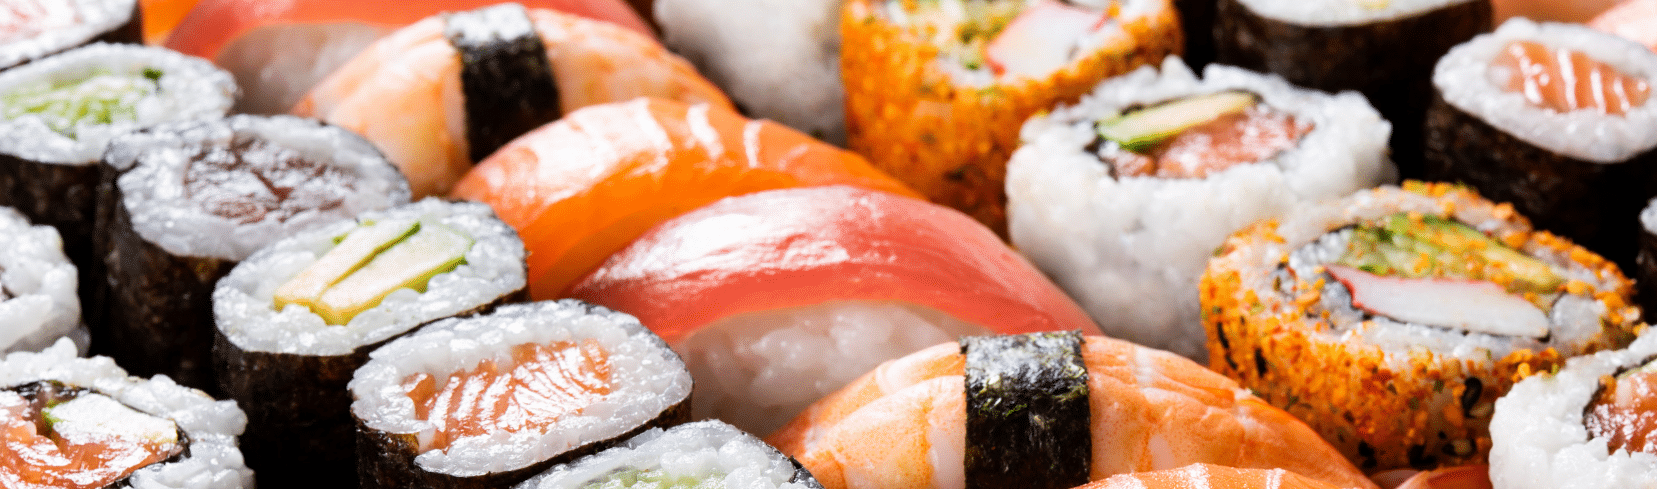
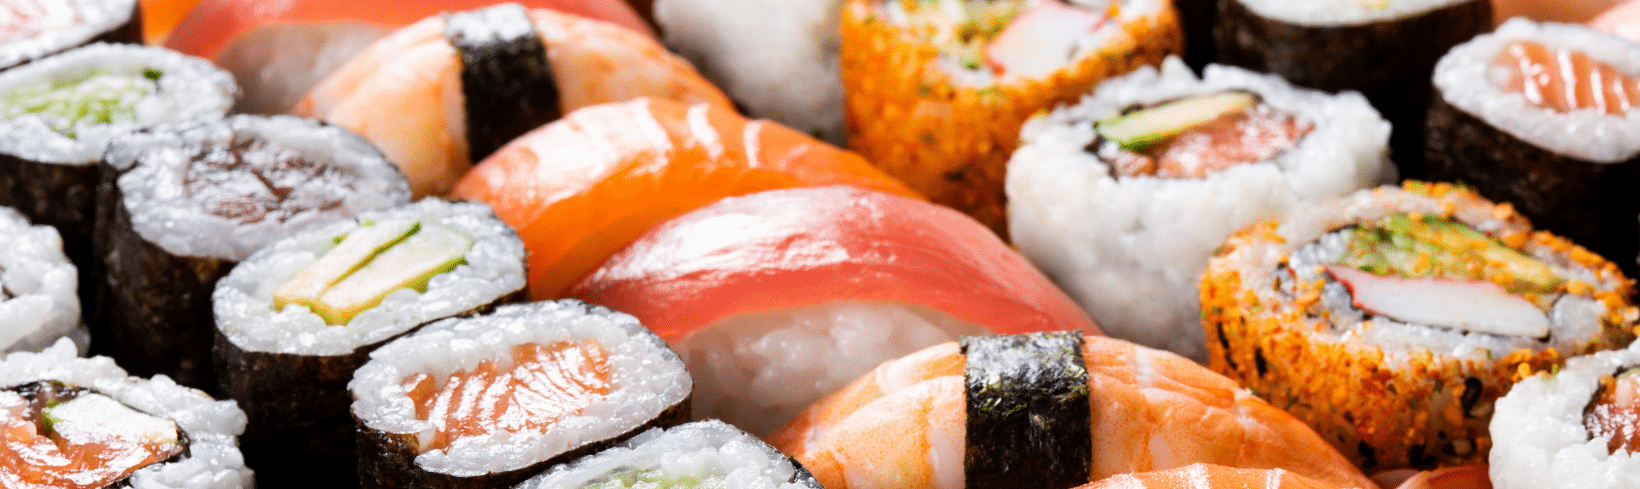
Remplacement de l'ancien projet par front_sae

diff --git a/front_sae/html/boxes.html b/front_sae/html/boxes.html
@@ -4,7 +4,7 @@
     <meta charset="UTF-8">
     <meta http-equiv="X-UA-Compatible" content="IE=edge">
     <meta name="viewport" content="width=device-width, initial-scale=1.0">
-    <link rel="stylesheet" href="../css/style_menu.css">
+    <link rel="stylesheet" href="../css/style_boxes.css">
     <title>OISHI</title>
 </head>
 <body>
@@ -14,21 +14,26 @@
       <div class="logo"><img src="../image/logo/logo_contour.png" alt="Logo"></div>
 
       <div class="nav-links" id="nav-links">
-        <a class="accueil" href="./index.html">Accueil</a>
-        <a href="./Menu.html">Menu</a>
+        <a class="accueil" href="../html/index.html">Accueil</a>
+        <a href="../html/menu.html">Menu</a>
         <a href="./offre.html">Offre</a>
-        <a href="./box.html">Boxes</a>   
+        <a href="../html/boxes.html">Boxes</a>   
         <a class="profil" href="./profil.html"><img src="../image/profil.png" alt="profil"></a>
       <a class="panier" href="../html/panier.html"><img src="../image/panier.png" alt="panier"></a>
 </div>
     </div>
   </nav>
 <img class="img_menu" src="../image/fond_sushi_menu.png" alt="image_menu">
-<p class="menu_text">Menu</p>
-<p class="boxes_text">Boxes</p>
+<a  class="menu_text"href="../html/menu.html">Menu</a>
+<a  class="boxes_text" href="../html/boxes.html">Boxes</a>
 <p class="offres_text">Offres</p>
 
-
+<img class="boxx1" src="../image/boxx1.png" alt="menu">
+<img class="boxx2" src="../image/boxx2.png" alt="menu">
+<img class="boxx3" src="../image/boxxx3.png" alt="menu">
+<img class="button" src="../image/bouton_ajout.png" alt="bouton">
+<img class="button2" src="../image/bouton_ajout.png" alt="bouton">
+<img class="button3" src="../image/bouton_ajout.png" alt="bouton">
 
 
 

diff --git a/front_sae/html/menu.html b/front_sae/html/menu.html
@@ -14,21 +14,26 @@
       <div class="logo"><img src="../image/logo/logo_contour.png" alt="Logo"></div>
 
       <div class="nav-links" id="nav-links">
-        <a class="accueil" href="./index.html">Accueil</a>
-        <a href="./Menu.html">Menu</a>
+        <a class="accueil" href="../html/index.html">Accueil</a>
+        <a href="../html/menu.html">Menu</a>
         <a href="./offre.html">Offre</a>
-        <a href="./box.html">Boxes</a>   
+        <a href="../html/boxes.html">Boxes</a>   
         <a class="profil" href="./profil.html"><img src="../image/profil.png" alt="profil"></a>
       <a class="panier" href="../html/panier.html"><img src="../image/panier.png" alt="panier"></a>
 </div>
     </div>
   </nav>
 <img class="img_menu" src="../image/fond_sushi_menu.png" alt="image_menu">
-<p class="menu_text">Menu</p>
-<p class="boxes_text">Boxes</p>
+<a  class="menu_text"href="../html/menu.html">Menu</a>
+<a  class="boxes_text" href="../html/boxes.html">Boxes</a>
 <p class="offres_text">Offres</p>
 
-
+<img class="sushi1" src="../image/SUSHI1_menu.png" alt="menu">
+<img class="sushi2" src="../image/sushi2_menu.png" alt="menu">
+<img class="sushi3" src="../image/sushi3_menu.png" alt="menu">
+<img class="button" src="../image/bouton_ajout.png" alt="bouton">
+<img class="button2" src="../image/bouton_ajout.png" alt="bouton">
+<img class="button3" src="../image/bouton_ajout.png" alt="bouton">
 
 
 

diff --git a/front_sae/css/style_menu.css b/front_sae/css/style_menu.css
@@ -41,6 +41,7 @@ nav {
 .profil{
     margin-left:380px;
 }
+
 .menu_text{
     font-family: "Inter", sans-serif;
     font-weight: bold;
@@ -48,7 +49,8 @@ nav {
     text-align: left;
     margin-top: 5px;
     margin-left: 100px;
-    text-decoration: solid underline;
+    color:black;
+    
 }
 .boxes_text{
     font-family: "Inter", sans-serif;
@@ -56,13 +58,54 @@ nav {
     font-size: 20px;
     text-align: left;
     margin-top:-43px;
-    margin-left: 220px;
+    margin-left: 140px;
+    text-decoration:none;
+    color: black;
+
+
 }
 .offres_text{
     font-family: "Inter", sans-serif;
     font-weight: bold;
     font-size: 20px;
     text-align: left;
-    margin-top:-45px;
-    margin-left: 320px;
+    margin-top:-25px;
+    margin-left: 200px;
+}
+
+.sushi1{
+    position: absolute;
+    width: 250px;
+    margin-left: 380px;
+    margin-top: 20px;
+}
+.sushi2{
+    position: absolute;
+    width: 250px;
+    margin-left: 680px;
+    margin-top: 20px;
+}
+.sushi3{
+    position: absolute;
+    width: 250px;
+    margin-left: 970px;
+    margin-top: 20px;
+}
+.button{
+    position: absolute;
+    width: 40px;
+    margin-left: 570px;
+    margin-top: 260px;
+}
+.button2{
+    position: absolute;
+    width: 40px;
+    margin-left: 870px;
+    margin-top: 250px;
+}
+.button3{
+    position: absolute;
+    width: 40px;
+    margin-left: 1160px;
+    margin-top: 250px;
 }

diff --git a/front_sae/css/style_boxes.css b/front_sae/css/style_boxes.css
@@ -48,7 +48,9 @@ nav {
     text-align: left;
     margin-top: 5px;
     margin-left: 100px;
-    text-decoration: solid underline;
+    text-decoration: none;
+    color:black;
+    
 }
 .boxes_text{
     font-family: "Inter", sans-serif;
@@ -56,13 +58,53 @@ nav {
     font-size: 20px;
     text-align: left;
     margin-top:-43px;
-    margin-left: 220px;
+    margin-left: 140px;
+    text-decoration: solid underline;
+    color: black;
+
 }
 .offres_text{
     font-family: "Inter", sans-serif;
     font-weight: bold;
     font-size: 20px;
     text-align: left;
-    margin-top:-45px;
-    margin-left: 320px;
+    margin-top:-25px;
+    margin-left: 200px;
+}
+
+.boxx1{
+    position: absolute;
+    width: 250px;
+    margin-left: 380px;
+    margin-top: 20px;
+}
+.boxx2{
+    position: absolute;
+    width: 250px;
+    margin-left: 680px;
+    margin-top: 20px;
+}
+.boxx3{
+    position: absolute;
+    width: 250px;
+    margin-left: 970px;
+    margin-top: 20px;
+}
+.button{
+    position: absolute;
+    width: 40px;
+    margin-left: 570px;
+    margin-top: 260px;
+}
+.button2{
+    position: absolute;
+    width: 40px;
+    margin-left: 870px;
+    margin-top: 250px;
+}
+.button3{
+    position: absolute;
+    width: 40px;
+    margin-left: 1160px;
+    margin-top: 250px;
 }

diff --git a/front_sae/html/index.html b/front_sae/html/index.html
@@ -17,7 +17,7 @@
         <a class="accueil" href="./index.html">Accueil</a>
         <a href="../html/menu.html">Menu</a>
         <a href="./offre.html">Offre</a>
-        <a href="./box.html">Boxes</a>
+        <a href="../html/boxes.html">Boxes</a>
         <a class="profil" href="./profil.html"><img src="../image/profil.png" alt="profil"></a>
       <a class="panier" href="../html/panier.html"><img src="../image/panier.png" alt="panier"></a>
 
